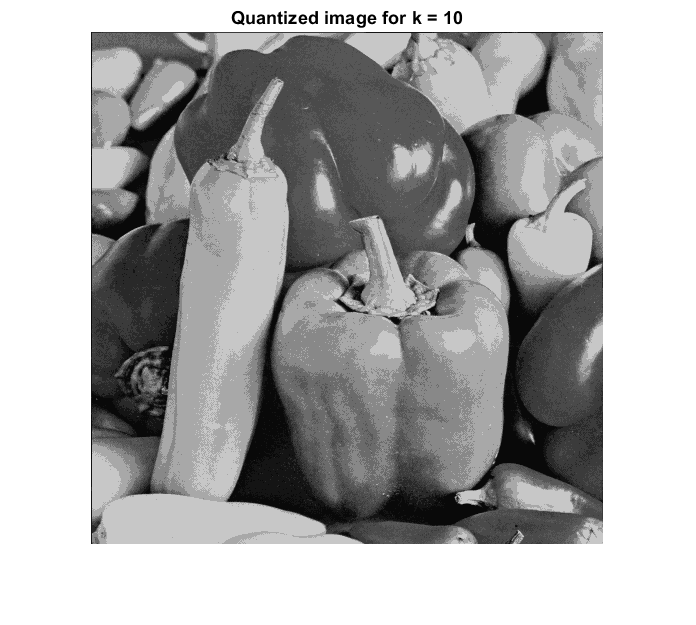
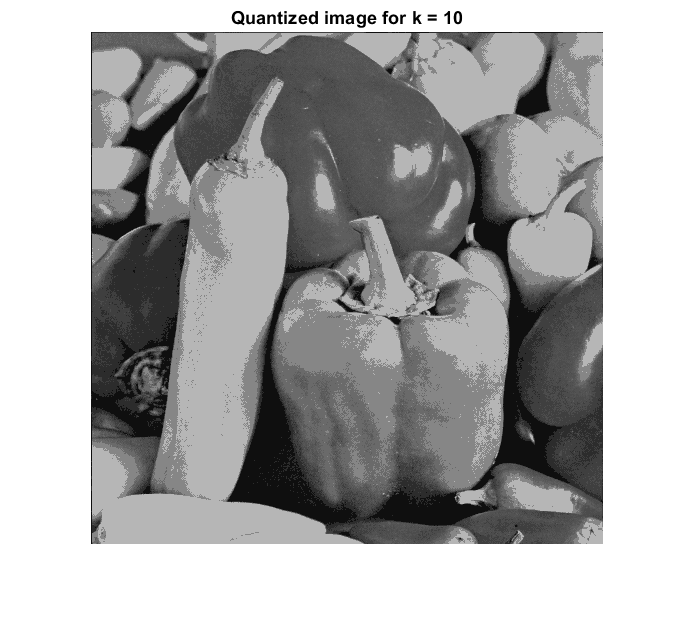
fixed another bug ex 3

diff --git a/lab1/ex3/quantization.m b/lab1/ex3/quantization.m
@@ -67,6 +67,10 @@ function [quantizedImage, means, means_matrix, initial_means, clusters, current_
     %         pixel stores the cluster index
             label_matrix = zeros(H, W);
 
+            if iteration ~= 1
+                means = means_matrix(iteration - 1, :);
+            end
+
             for row = 1:H
                 for column = 1:W
                     fprintf("Iteration %d,  pixel (%d, %d)\n", iteration, row, column);
